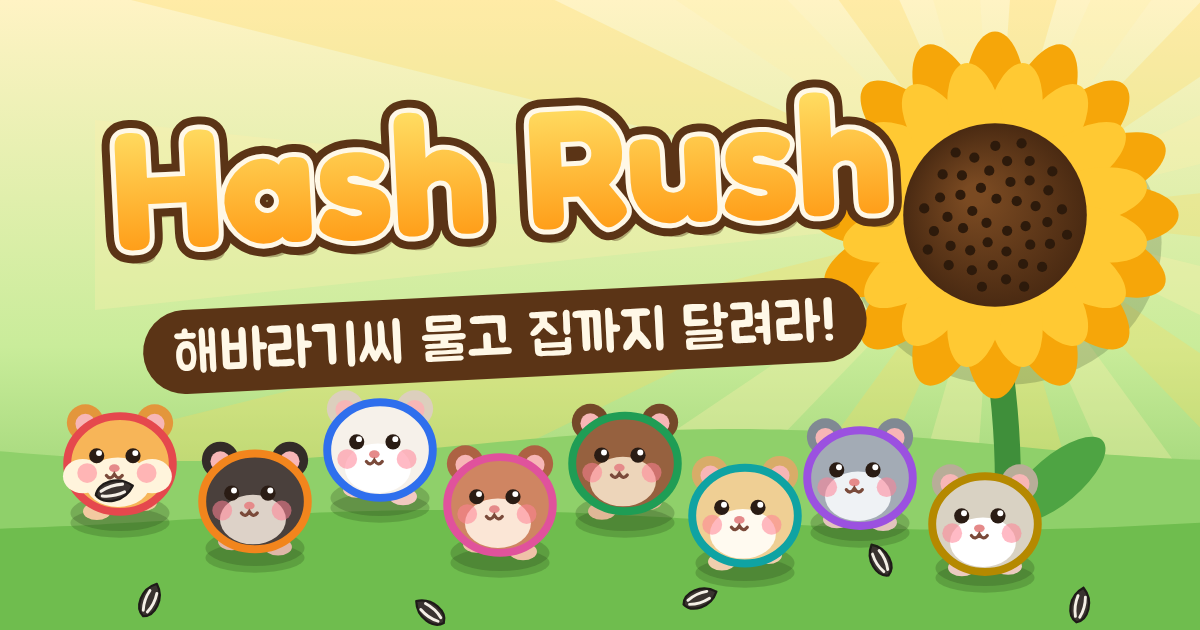
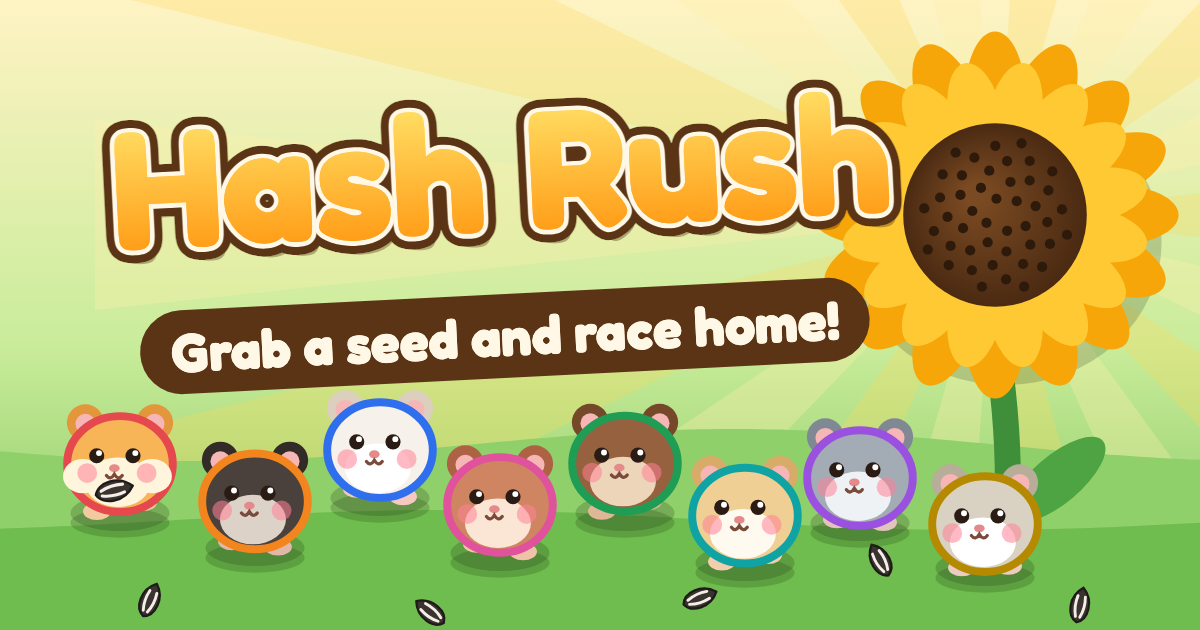
Write the link preview in English
The preview image tagline and og:description were Korean while the title and
description were already English.

Changed region(s): [[0.0925, 0.4524, 0.74, 0.6032], [0.4625, 0.2413, 0.4933, 0.2714]]

diff --git a/tools/og.html b/tools/og.html
@@ -4,7 +4,7 @@
 <html>
   <head>
     <meta charset="utf-8" />
-    <link rel="stylesheet" href="https://fonts.googleapis.com/css2?family=Fredoka:wght@700&family=Jua&display=swap" />
+    <link rel="stylesheet" href="https://fonts.googleapis.com/css2?family=Fredoka:wght@700&display=swap" />
     <style>
       body { margin: 0; background: #222; }
       canvas { display: block; }
@@ -17,7 +17,6 @@
       import { LOOKS } from '../src/client/looks.js';
 
       await document.fonts.load('700 150px Fredoka');
-      await document.fonts.load('56px Jua', '해바라기씨 물고 집까지 달려라!');
       const W = 1200;
       const H = 630;
       const ctx = document.getElementById('og').getContext('2d');
@@ -114,9 +113,9 @@
       ctx.save();
       ctx.translate(mid, 340);
       ctx.rotate(-0.05);
-      ctx.font = '56px Jua';
+      ctx.font = '700 54px Fredoka';
       ctx.textAlign = 'center';
-      const tag = '해바라기씨 물고 집까지 달려라!';
+      const tag = 'Grab a seed and race home!';
       const tw = ctx.measureText(tag).width;
       ctx.fillStyle = '#5b3416';
       ctx.beginPath();

diff --git a/index.html b/index.html
@@ -7,7 +7,7 @@
     <meta name="description" content="A hamster game of chicken: grab a sunflower seed and be the first one home." />
     <meta property="og:type" content="website" />
     <meta property="og:title" content="Hash Rush" />
-    <meta property="og:description" content="해바라기씨 물고 집까지 달려라! 최대 8마리 햄스터 눈치싸움 웹게임." />
+    <meta property="og:description" content="Grab a sunflower seed and race home! A hamster game of chicken for up to 8 players." />
     <meta property="og:url" content="https://minglelabs.github.io/hash-rush/" />
     <meta property="og:image" content="https://minglelabs.github.io/hash-rush/og.png" />
     <meta property="og:image:width" content="1200" />

diff --git a/docs/HANDOFF.md b/docs/HANDOFF.md
@@ -69,7 +69,7 @@ git worktree add ../hash-rush-<작업명> -b <브랜치> origin/main
   - 방마다 retained 메시지 하나, 방장 연결이 끊기면 last will로 자동 삭제
   - 1분마다 갱신, 3분 소식 없으면 목록에서 숨김
   - 누구나 가짜 방을 올릴 수 있음 (글자로만 표시해서 안전)
-- **Google Fonts** (Fredoka, Jua): OG 이미지 생성 도구에서만 사용
+- **Google Fonts** (Fredoka): OG 이미지 생성 도구에서만 사용
 
 ## 5. 실기기에서 확인 못 한 것
 
